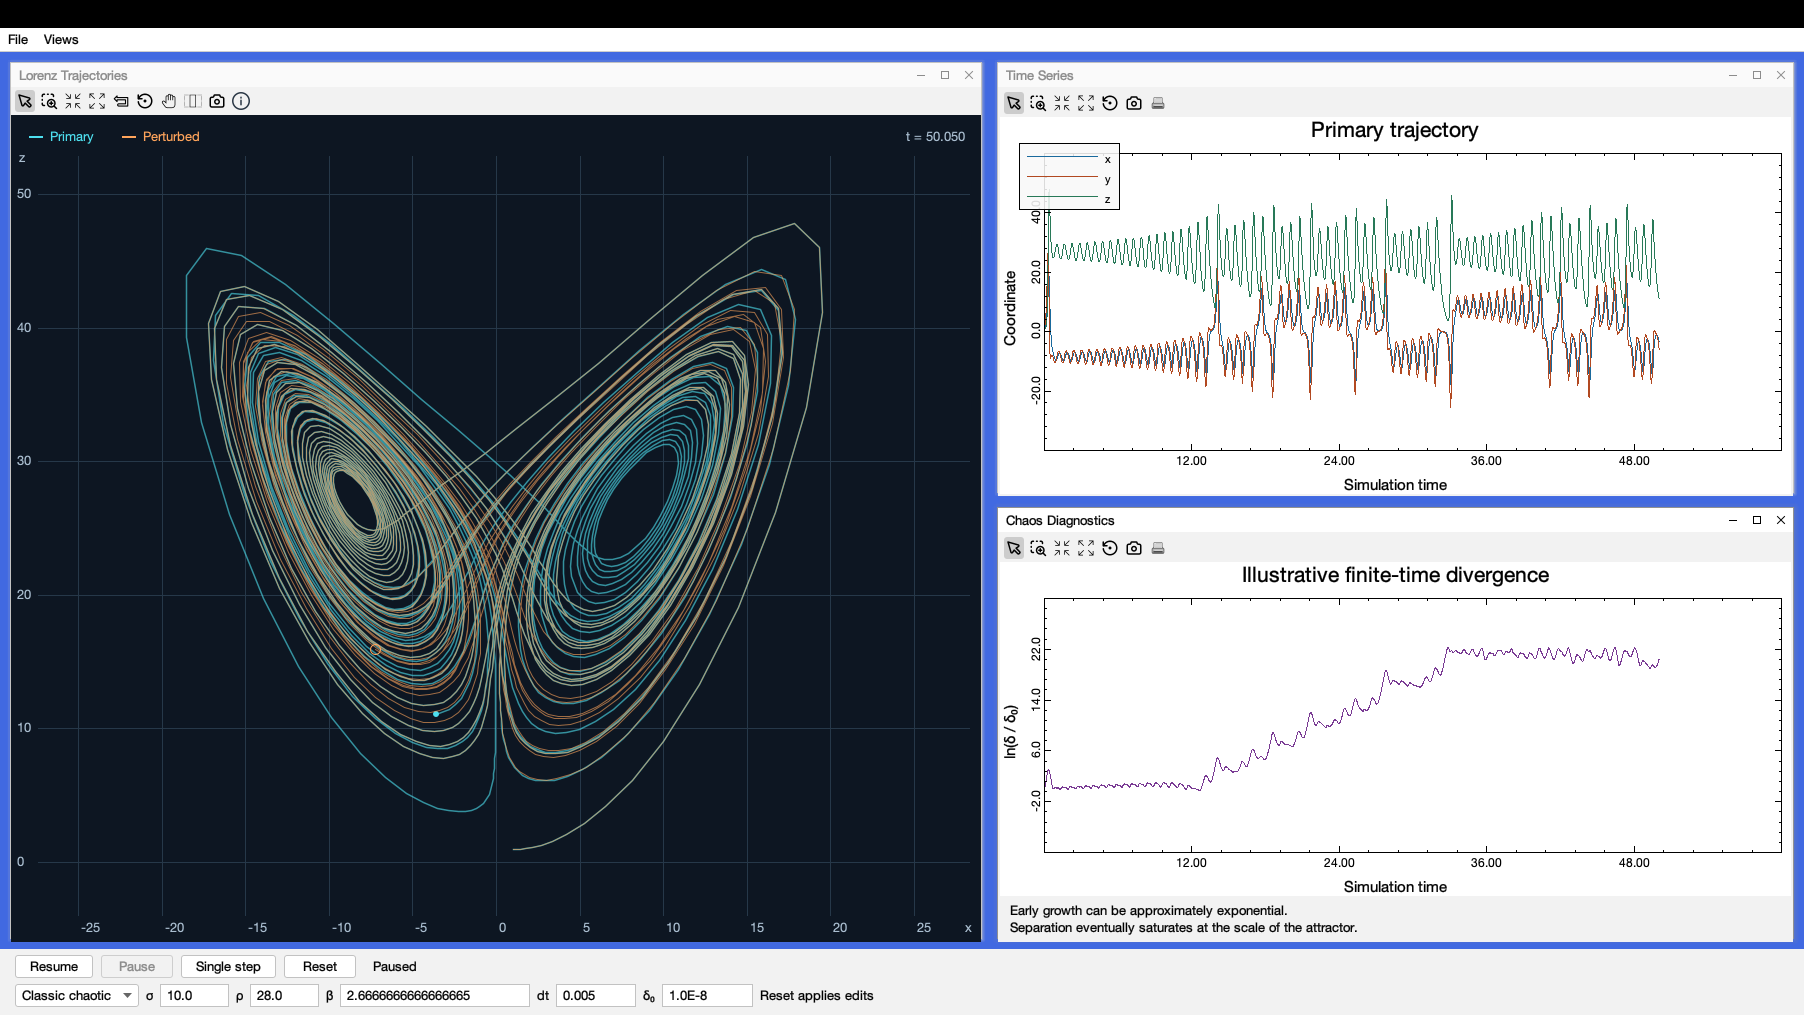
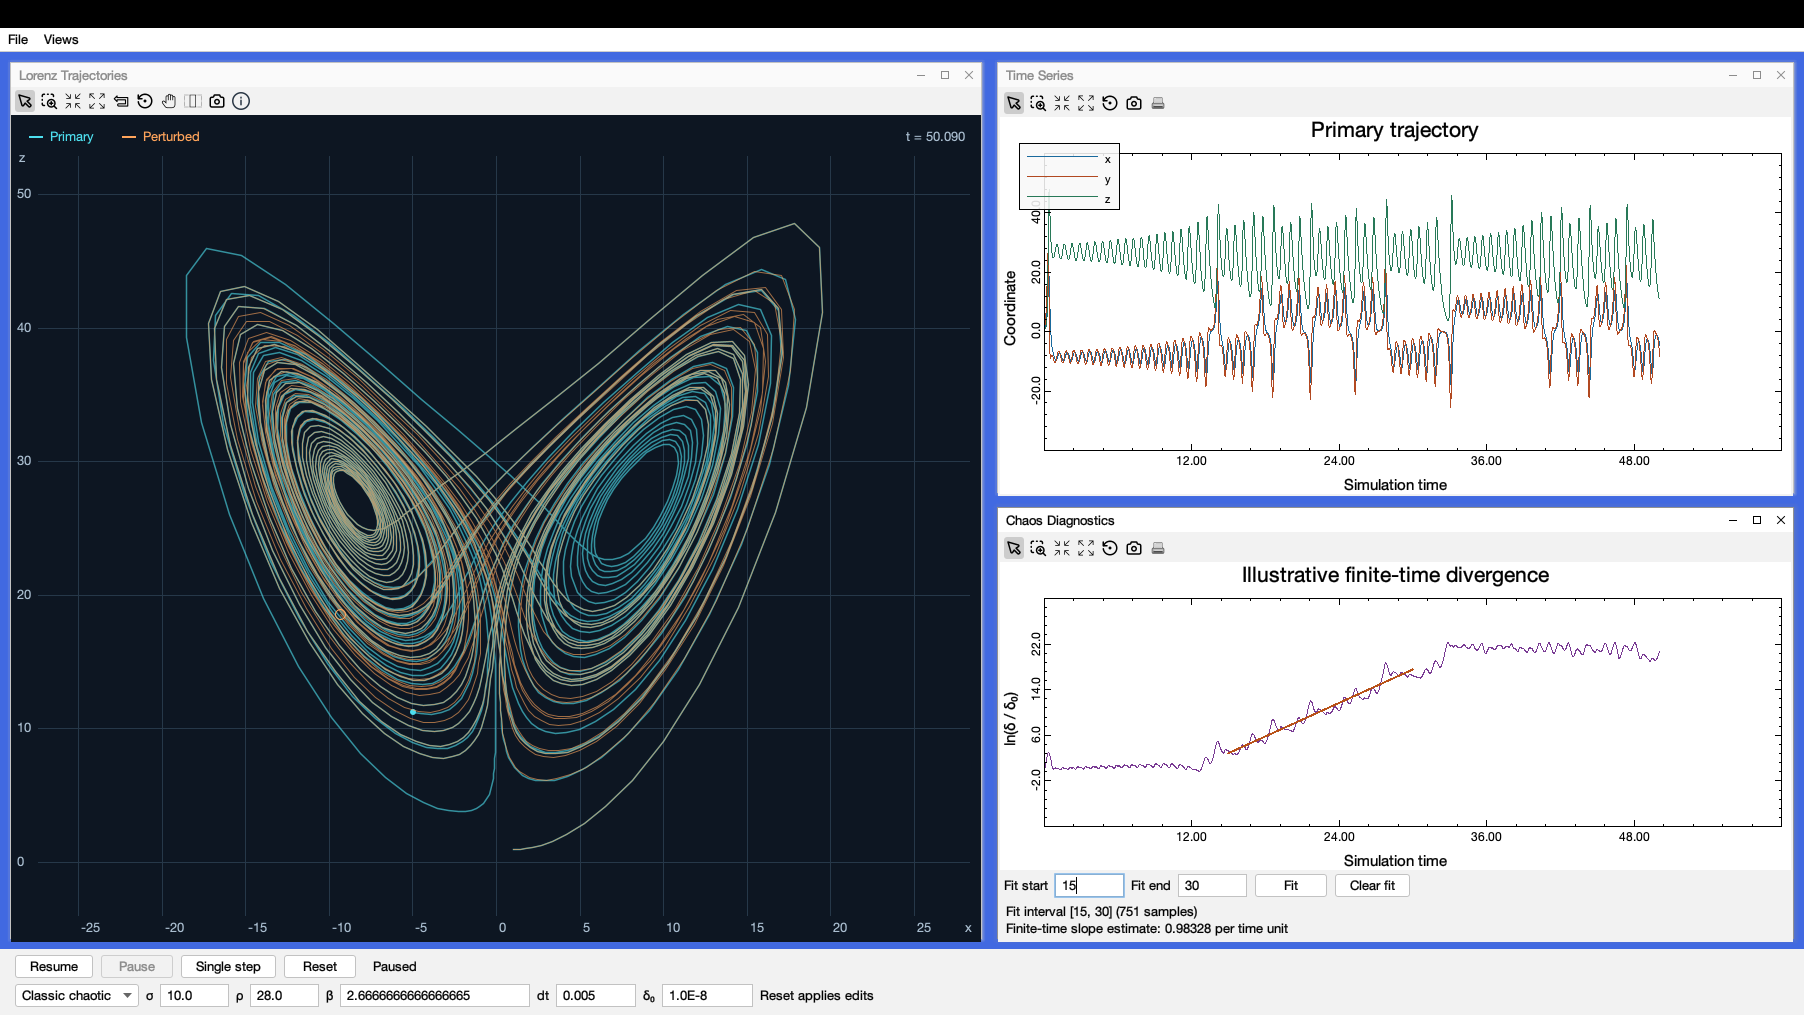
Add interactive divergence interval fit

diff --git a/src/main/java/edu/cnu/mdi/chaos/view/ChaosPlotView.java b/src/main/java/edu/cnu/mdi/chaos/view/ChaosPlotView.java
@@ -6,9 +6,6 @@ import java.util.Arrays;
 import java.util.List;
 import java.util.function.ToDoubleFunction;
 
-import javax.swing.BorderFactory;
-import javax.swing.JLabel;
-
 import edu.cnu.mdi.chaos.model.ChaosSnapshot;
 import edu.cnu.mdi.chaos.sim.ChaosSimulation;
 import edu.cnu.mdi.graphics.style.SymbolType;
@@ -27,29 +24,33 @@ public final class ChaosPlotView extends BaseView {
     private final PlotCanvas canvas;
     private final Curve[] curves;
     private final List<Series> series;
-    private final JLabel note;
+    private final DivergenceFitPanel fitPanel;
 
     public static ChaosPlotView timeSeries() {
-        return new ChaosPlotView("Time Series", "Primary trajectory", "Coordinate", "",
+        return new ChaosPlotView("Time Series", "Primary trajectory", "Coordinate", false,
                 new Series("x", new Color(26, 106, 157), sample -> sample.primary().x()),
                 new Series("y", new Color(178, 73, 33), sample -> sample.primary().y()),
                 new Series("z", new Color(40, 121, 88), sample -> sample.primary().z()));
     }
 
     public static ChaosPlotView diagnostics() {
-        return new ChaosPlotView("Chaos Diagnostics", "Illustrative finite-time divergence", "ln(δ / δ₀)",
-                "<html>Early growth can be approximately exponential.<br>"
-                        + "Separation eventually saturates at the scale of the attractor.</html>",
+        return new ChaosPlotView("Chaos Diagnostics", "Illustrative finite-time divergence", "ln(δ / δ₀)", true,
                 new Series("Divergence", new Color(121, 58, 147), ChaosSnapshot::logDivergence));
     }
 
-    private ChaosPlotView(String title, String plotTitle, String yLabel, String explanation, Series... series) {
+    private ChaosPlotView(String title, String plotTitle, String yLabel, boolean includeFit, Series... series) {
         super(PropertyUtils.TITLE, title, PropertyUtils.WIDTH, 510, PropertyUtils.HEIGHT, 300,
                 PropertyUtils.USECONTAINER, false, PropertyUtils.VISIBLE, true);
         this.series = List.of(series);
         curves = new Curve[series.length];
         try {
-            String[] names = this.series.stream().map(Series::name).toArray(String[]::new);
+            String[] names = new String[series.length + (includeFit ? 1 : 0)];
+            for (int i = 0; i < series.length; i++) {
+                names[i] = series[i].name();
+            }
+            if (includeFit) {
+                names[series.length] = "Selected interval fit";
+            }
             var data = new PlotData(PlotDataType.XYEXYE, names, null);
             for (int i = 0; i < series.length; i++) {
                 Curve curve = (Curve) data.getCurve(series[i].name());
@@ -58,6 +59,16 @@ public final class ChaosPlotView extends BaseView {
                 curve.getStyle().setLineColor(series[i].color());
                 curves[i] = curve;
             }
+            if (includeFit) {
+                Curve fitLine = (Curve) data.getCurve(names[series.length]);
+                fitLine.setCurveDrawingMethod(CurveDrawingMethod.CONNECT);
+                fitLine.getStyle().setSymbolType(SymbolType.NOSYMBOL);
+                fitLine.getStyle().setLineColor(new Color(185, 82, 24));
+                fitLine.getStyle().setLineWidth(2f);
+                fitPanel = new DivergenceFitPanel(curves[0], fitLine);
+            } else {
+                fitPanel = null;
+            }
             canvas = new PlotCanvas(data, plotTitle, "Simulation time", yLabel);
         } catch (PlotDataException error) {
             throw new IllegalStateException("Could not initialize sPlot", error);
@@ -65,18 +76,14 @@ public final class ChaosPlotView extends BaseView {
         canvas.getParameters().setLegendDrawing(series.length > 1).setNumDecimalY(1);
         canvas.getPlotTicks().setNumMajorTickY(4);
         add(new PlotPanel(canvas, PlotPanel.BARE), BorderLayout.CENTER);
-        note = new JLabel(explanation);
-        if (!explanation.isEmpty()) {
-            note.setBorder(BorderFactory.createEmptyBorder(4, 12, 7, 8));
-            add(note, BorderLayout.SOUTH);
+        if (fitPanel != null) {
+            add(fitPanel, BorderLayout.SOUTH);
         }
         canvas.standUp();
     }
 
-    public void showUndefinedDiagnostic(boolean zeroPerturbation) {
-        note.setText(zeroPerturbation ? "Log divergence is undefined when δ₀ is zero."
-                : "<html>Early growth can be approximately exponential.<br>"
-                        + "Separation eventually saturates at the scale of the attractor.</html>");
+    public void resetDiagnostic(boolean zeroPerturbation) {
+        fitPanel.reset(zeroPerturbation);
     }
 
     public void append(List<ChaosSnapshot> samples) {
@@ -103,6 +110,9 @@ public final class ChaosPlotView extends BaseView {
                 var previous = curve.snapshot();
                 int keep = Math.min(Math.max(0, previous.length() - TRIM_SIZE), capacity - count);
                 curve.clearData();
+                if (fitPanel != null) {
+                    fitPanel.clearIfTrimmed(keep == 0 ? x[0] : previous.x[previous.length() - keep]);
+                }
                 if (keep > 0) {
                     curve.addAll(Arrays.copyOfRange(previous.x, previous.length() - keep, previous.length()),
                             Arrays.copyOfRange(previous.y, previous.length() - keep, previous.length()));

diff --git a/src/main/java/edu/cnu/mdi/chaos/view/DivergenceFitPanel.java b/src/main/java/edu/cnu/mdi/chaos/view/DivergenceFitPanel.java
@@ -1,0 +1,110 @@
+package edu.cnu.mdi.chaos.view;
+
+import java.awt.BorderLayout;
+import java.awt.FlowLayout;
+import java.util.Locale;
+
+import javax.swing.BorderFactory;
+import javax.swing.JButton;
+import javax.swing.JLabel;
+import javax.swing.JPanel;
+import javax.swing.JTextField;
+
+import edu.cnu.mdi.chaos.model.DivergenceFit;
+import edu.cnu.mdi.splot.pdata.Curve;
+
+final class DivergenceFitPanel extends JPanel {
+    private static final String INSTRUCTIONS = "Fit a rising interval before separation saturates.";
+    private final JTextField start = new JTextField(5);
+    private final JTextField end = new JTextField(5);
+    private final JButton fit = new JButton("Fit");
+    private final JButton clear = new JButton("Clear fit");
+    private final JLabel result = new JLabel(INSTRUCTIONS);
+    private final Curve data;
+    private final Curve line;
+    private DivergenceFit estimate;
+
+    DivergenceFitPanel(Curve data, Curve line) {
+        super(new BorderLayout());
+        this.data = data;
+        this.line = line;
+        var controls = new JPanel(new FlowLayout(FlowLayout.LEADING, 6, 2));
+        addField(controls, "Fit start", start);
+        addField(controls, "Fit end", end);
+        controls.add(fit);
+        controls.add(clear);
+        add(controls, BorderLayout.NORTH);
+        result.setBorder(BorderFactory.createEmptyBorder(2, 8, 6, 8));
+        add(result, BorderLayout.SOUTH);
+        clear.setEnabled(false);
+        fit.addActionListener(event -> fit());
+        clear.addActionListener(event -> clearResult(INSTRUCTIONS));
+        start.addActionListener(event -> fit.doClick());
+        end.addActionListener(event -> fit.doClick());
+    }
+
+    private static void addField(JPanel panel, String text, JTextField field) {
+        var label = new JLabel(text);
+        label.setLabelFor(field);
+        panel.add(label);
+        panel.add(field);
+    }
+
+    private void fit() {
+        clearResult(INSTRUCTIONS);
+        try {
+            double startTime = Double.parseDouble(start.getText().trim());
+            double endTime = Double.parseDouble(end.getText().trim());
+            var samples = data.snapshot();
+            if (samples.length() == 0) {
+                clearResult("Run the simulation to record divergence samples.");
+                return;
+            }
+            if (startTime < samples.x[0] || endTime > samples.x[samples.length() - 1]) {
+                clearResult(String.format(Locale.ROOT, "Choose times within the recorded range [%s, %s].",
+                        formatTime(samples.x[0]), formatTime(samples.x[samples.length() - 1])));
+                return;
+            }
+            estimate = DivergenceFit.estimate(samples.x, samples.y, startTime, endTime);
+            double first = estimate.firstTime();
+            double last = estimate.lastTime();
+            line.addAll(new double[] {first, last},
+                    new double[] {estimate.valueAt(first), estimate.valueAt(last)});
+            clear.setEnabled(true);
+            result.setText(String.format(Locale.ROOT, "<html>Fit interval [%s, %s] (%d samples)<br>"
+                            + "Finite-time slope estimate: %.5g per time unit</html>",
+                    formatTime(startTime), formatTime(endTime), estimate.sampleCount(), estimate.slope()));
+        } catch (NumberFormatException error) {
+            clearResult("Enter a numeric start and end time.");
+        } catch (IllegalArgumentException error) {
+            clearResult(error.getMessage());
+        }
+    }
+
+    private static String formatTime(double time) {
+        return java.math.BigDecimal.valueOf(time).setScale(8, java.math.RoundingMode.HALF_UP)
+                .stripTrailingZeros().toPlainString();
+    }
+
+    void clearIfTrimmed(double oldestTime) {
+        if (estimate != null && estimate.firstTime() < oldestTime) {
+            clearResult("Fit cleared because its samples aged out of the plot.");
+        }
+    }
+
+    void reset(boolean zeroPerturbation) {
+        start.setEnabled(!zeroPerturbation);
+        end.setEnabled(!zeroPerturbation);
+        fit.setEnabled(!zeroPerturbation);
+        clearResult(zeroPerturbation ? "Log divergence is undefined when δ₀ is zero." : INSTRUCTIONS);
+    }
+
+    private void clearResult(String message) {
+        if (estimate != null) {
+            line.clearData();
+        }
+        estimate = null;
+        clear.setEnabled(false);
+        result.setText(message);
+    }
+}

diff --git a/src/main/java/edu/cnu/mdi/chaos/model/DivergenceFit.java b/src/main/java/edu/cnu/mdi/chaos/model/DivergenceFit.java
@@ -1,0 +1,47 @@
+package edu.cnu.mdi.chaos.model;
+
+/** Ordinary least-squares line through finite divergence samples in a selected time interval. */
+public record DivergenceFit(double firstTime, double lastTime, double meanTime,
+                            double meanDivergence, double slope, int sampleCount) {
+
+    public static DivergenceFit estimate(double[] times, double[] divergence, double start, double end) {
+        if (!Double.isFinite(start) || !Double.isFinite(end) || start < 0 || start >= end) {
+            throw new IllegalArgumentException("Enter finite times with 0 ≤ start < end.");
+        }
+        int count = 0;
+        double first = Double.POSITIVE_INFINITY;
+        double last = Double.NEGATIVE_INFINITY;
+        double meanTime = 0;
+        double meanValue = 0;
+        double timeVariance = 0;
+        double covariance = 0;
+        for (int i = 0; i < times.length; i++) {
+            double time = times[i];
+            double value = divergence[i];
+            if (!(time >= start && time <= end) || !Double.isFinite(value)) {
+                continue;
+            }
+            count++;
+            first = Math.min(first, time);
+            last = Math.max(last, time);
+            double timeDelta = time - meanTime;
+            double valueDelta = value - meanValue;
+            meanTime += timeDelta / count;
+            meanValue += valueDelta / count;
+            timeVariance += timeDelta * (time - meanTime);
+            covariance += timeDelta * (value - meanValue);
+        }
+        if (count < 3 || !(timeVariance > 0)) {
+            throw new IllegalArgumentException("Select an interval with at least three finite samples at distinct times.");
+        }
+        double slope = covariance / timeVariance;
+        if (!Double.isFinite(slope)) {
+            throw new IllegalArgumentException("The slope is undefined for this interval.");
+        }
+        return new DivergenceFit(first, last, meanTime, meanValue, slope, count);
+    }
+
+    public double valueAt(double time) {
+        return meanDivergence + slope * (time - meanTime);
+    }
+}

diff --git a/src/test/java/edu/cnu/mdi/chaos/model/DivergenceFitTest.java b/src/test/java/edu/cnu/mdi/chaos/model/DivergenceFitTest.java
@@ -1,0 +1,31 @@
+package edu.cnu.mdi.chaos.model;
+
+import org.junit.jupiter.api.Test;
+
+import static org.junit.jupiter.api.Assertions.*;
+
+class DivergenceFitTest {
+    @Test
+    void estimatesOnlyFinitePointsInsideInclusiveBounds() {
+        double[] times = {0, 1, 2, 3, 4, 5, 6};
+        double[] divergence = {100, 5, Double.NaN, 9, 11, Double.POSITIVE_INFINITY, -100};
+        var fit = DivergenceFit.estimate(times, divergence, 1, 5);
+        assertEquals(3, fit.sampleCount());
+        assertEquals(1, fit.firstTime());
+        assertEquals(4, fit.lastTime());
+        assertEquals(2, fit.slope(), 1e-12);
+        assertEquals(5, fit.valueAt(1), 1e-12);
+        assertEquals(11, fit.valueAt(4), 1e-12);
+    }
+
+    @Test
+    void rejectsInvalidIntervalsAndInsufficientData() {
+        double[] times = {1, 2, 3};
+        double[] divergence = {3, 5, 7};
+        assertThrows(IllegalArgumentException.class, () -> DivergenceFit.estimate(times, divergence, 3, 1));
+        assertThrows(IllegalArgumentException.class, () -> DivergenceFit.estimate(times, divergence, 1, Double.NaN));
+        assertThrows(IllegalArgumentException.class, () -> DivergenceFit.estimate(times, divergence, 1, 2));
+        assertThrows(IllegalArgumentException.class, () ->
+                DivergenceFit.estimate(new double[] {2, 2, 2}, divergence, 1, 3));
+    }
+}

diff --git a/src/main/java/edu/cnu/mdi/chaos/app/ChaosApp.java b/src/main/java/edu/cnu/mdi/chaos/app/ChaosApp.java
@@ -94,7 +94,7 @@ public final class ChaosApp extends BaseMDIApplication implements SimulationList
         trajectories.clear(parameters);
         timeSeries.clear();
         diagnostics.clear();
-        diagnostics.showUndefinedDiagnostic(parameters.delta0() == 0);
+        diagnostics.resetDiagnostic(parameters.delta0() == 0);
         simulation = new ChaosSimulation(parameters, this);
         simulation.engine().start();
     }

diff --git a/README.md b/README.md
@@ -2,7 +2,7 @@
 
 MDI Chaos Lab is a standalone Java 17 desktop simulation built on MDI 1.2.4. It advances two Lorenz systems with the same equations and parameters and a small difference in their starting positions. The desktop shows both trajectories in the x–z plane, the primary trajectory’s three coordinates on one sPlot chart, and a separate sPlot chart for divergence.
 
-![MDI Chaos Lab paused at simulation time 50, showing the Lorenz butterfly, time series, and divergence plots](docs/desktop-screenshot.png)
+![MDI Chaos Lab paused at simulation time 50, showing the Lorenz butterfly, time series, and a divergence fit over simulation times 15 to 30](docs/desktop-screenshot.png)
 
 ## Build and run
 
@@ -21,6 +21,7 @@ The entry point is `edu.cnu.mdi.chaos.app.ChaosApp`. The build uses the publishe
 - **Single step** advances both systems by one integration step from Ready or Paused and leaves the simulation paused.
 - **Reset** validates and applies the parameter fields, clears every view’s history, and restores the initial conditions at time zero. Start or single-step to continue.
 - **Presets** fill the fields for the classic chaotic regime, a system that approaches the origin (Fixed point), or one that approaches a nonzero equilibrium (Stable lobe). Reset applies the selected values.
+- **Fit a divergence interval** by entering **Fit start** and **Fit end** in Chaos Diagnostics and clicking **Fit**. The line is a least-squares fit to the recorded samples within those bounds. The view reports the interval, sample count, and finite-time slope estimate. Pause to inspect the curve, then choose a rising segment before saturation. **Clear fit** removes the line. Reset also clears it.
 - **Capture a trajectory image** with the camera in the Lorenz Trajectories toolbar. For the classic butterfly, run until the time display reaches about 65–85, then pause. The same toolbar provides navigation and view help.
 
 ## Scientific model
@@ -35,7 +36,7 @@ The equations are `dx/dt = σ(y − x)`, `dy/dt = x(ρ − z) − y`, and `dz/dt
 | dt | 0.005 | 0.0001–0.01 |
 | δ₀ | 10⁻⁸ | 0 or 10⁻¹⁵–0.1 |
 
-The diagnostic plots the natural log of the instantaneous Euclidean separation divided by δ₀. Locally exponential growth can appear as a roughly straight segment, with fluctuations over a finite interval. Once the trajectories are separated at the scale of the attractor, the separation stays bounded and the log curve can flatten or fluctuate. A fit across that saturated portion would misrepresent the growth rate. The display is illustrative and performs no slope fitting or perturbation renormalization. Undefined log values are omitted. For δ₀ = 0 the two trajectories coincide and the diagnostic is undefined. Very small positive δ₀ values also expose floating-point rounding in the actual initial displacement. Numerical overflow stops the run and displays an error.
+The diagnostic plots the natural log of the instantaneous Euclidean separation divided by δ₀. Locally exponential growth can appear as a roughly straight segment, with fluctuations over a finite interval. Once the trajectories are separated at the scale of the attractor, the separation stays bounded and the log curve can flatten or fluctuate. A fit across that saturated portion would misrepresent the growth rate. The selected-interval slope is an illustrative finite-time estimate. The app performs no perturbation renormalization. Undefined log values are omitted. For δ₀ = 0 the two trajectories coincide and the diagnostic is undefined. Very small positive δ₀ values also expose floating-point rounding in the actual initial displacement. Numerical overflow stops the run and displays an error.
 
 ## Execution and presentation
 
@@ -45,4 +46,4 @@ The diagnostic plots the natural log of the instantaneous Euclidean separation d
 
 MDI 1.2.4 exposes run, resume and pause, but no step-once transition. The app arms a one-shot flag while the engine is Ready or Paused, then requests run. The worker consumes that flag, advances both trajectories once, and requests pause before returning from its MDI step callback. MDI checks the pause flag on the same worker before invoking the callback again. The EDT keeps the run, pause and step buttons disabled until MDI confirms Paused. Reset can retire the engine while a command is pending.
 
-The eight automated tests cover fourth-order convergence over a short interval, replay, reset, time, perturbation and divergence, bounded history, invalid inputs, and single-step behavior through the real MDI engine. Interactive fitting, renormalization and 3D are future work.
+The ten automated tests cover fourth-order convergence over a short interval, replay, reset, time, perturbation and divergence, bounded history, invalid inputs, selected-interval regression, and single-step behavior through the real MDI engine. Renormalization and 3D are future work.
